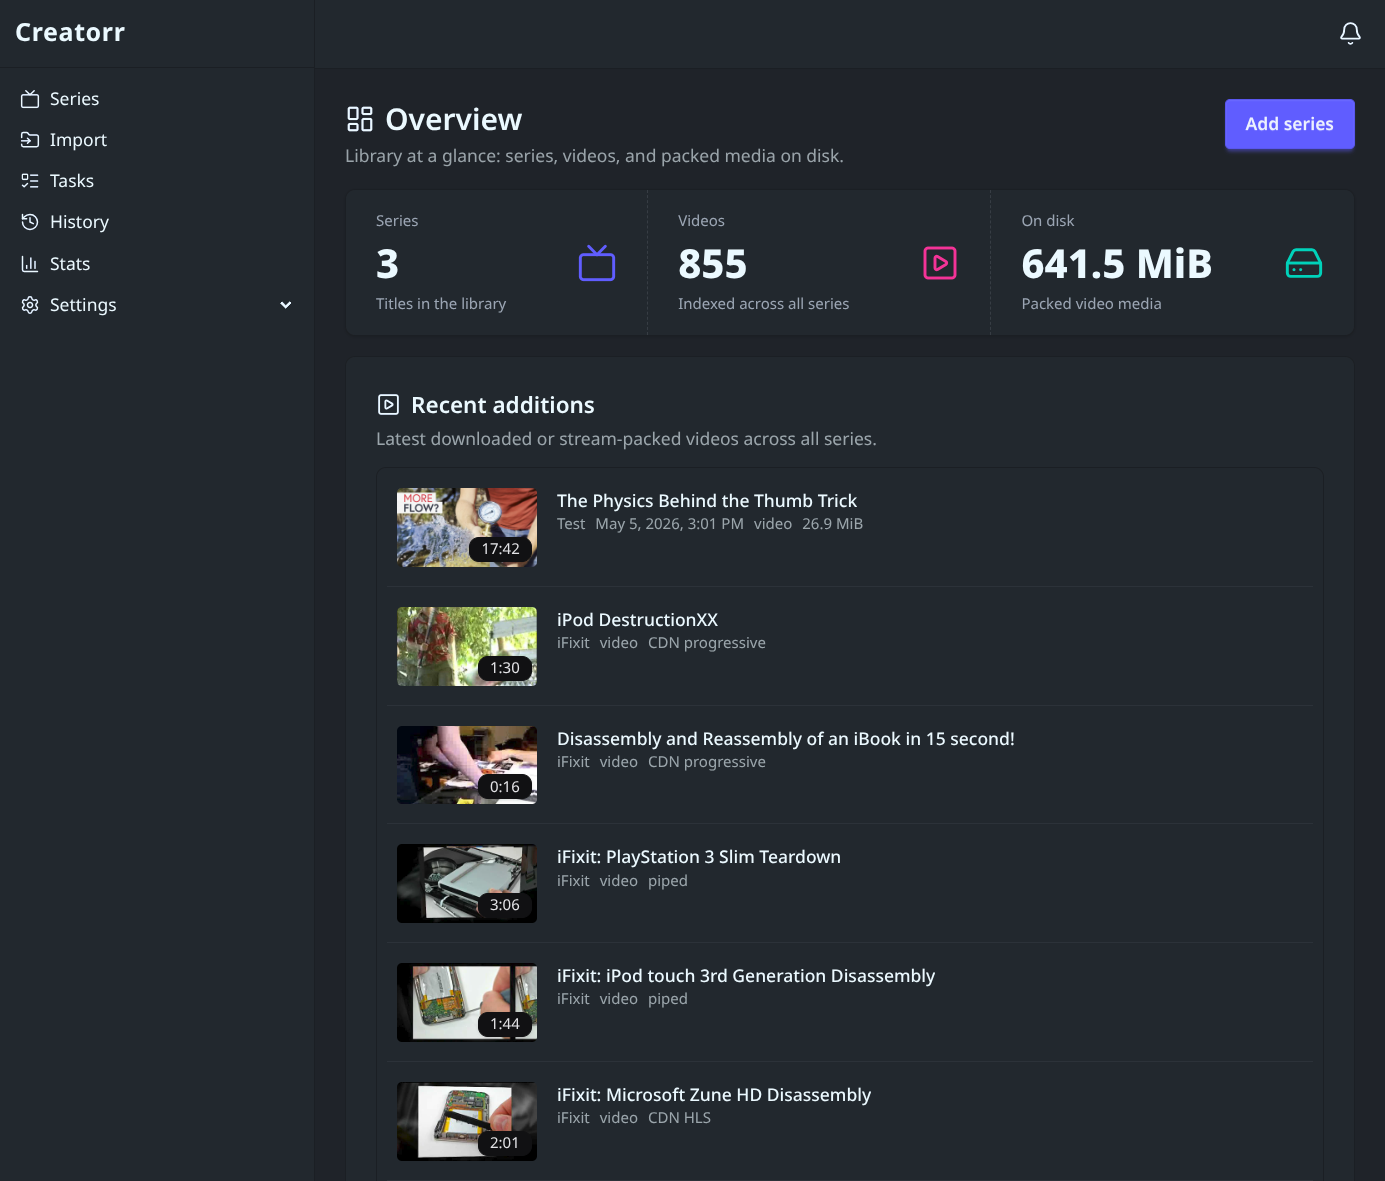
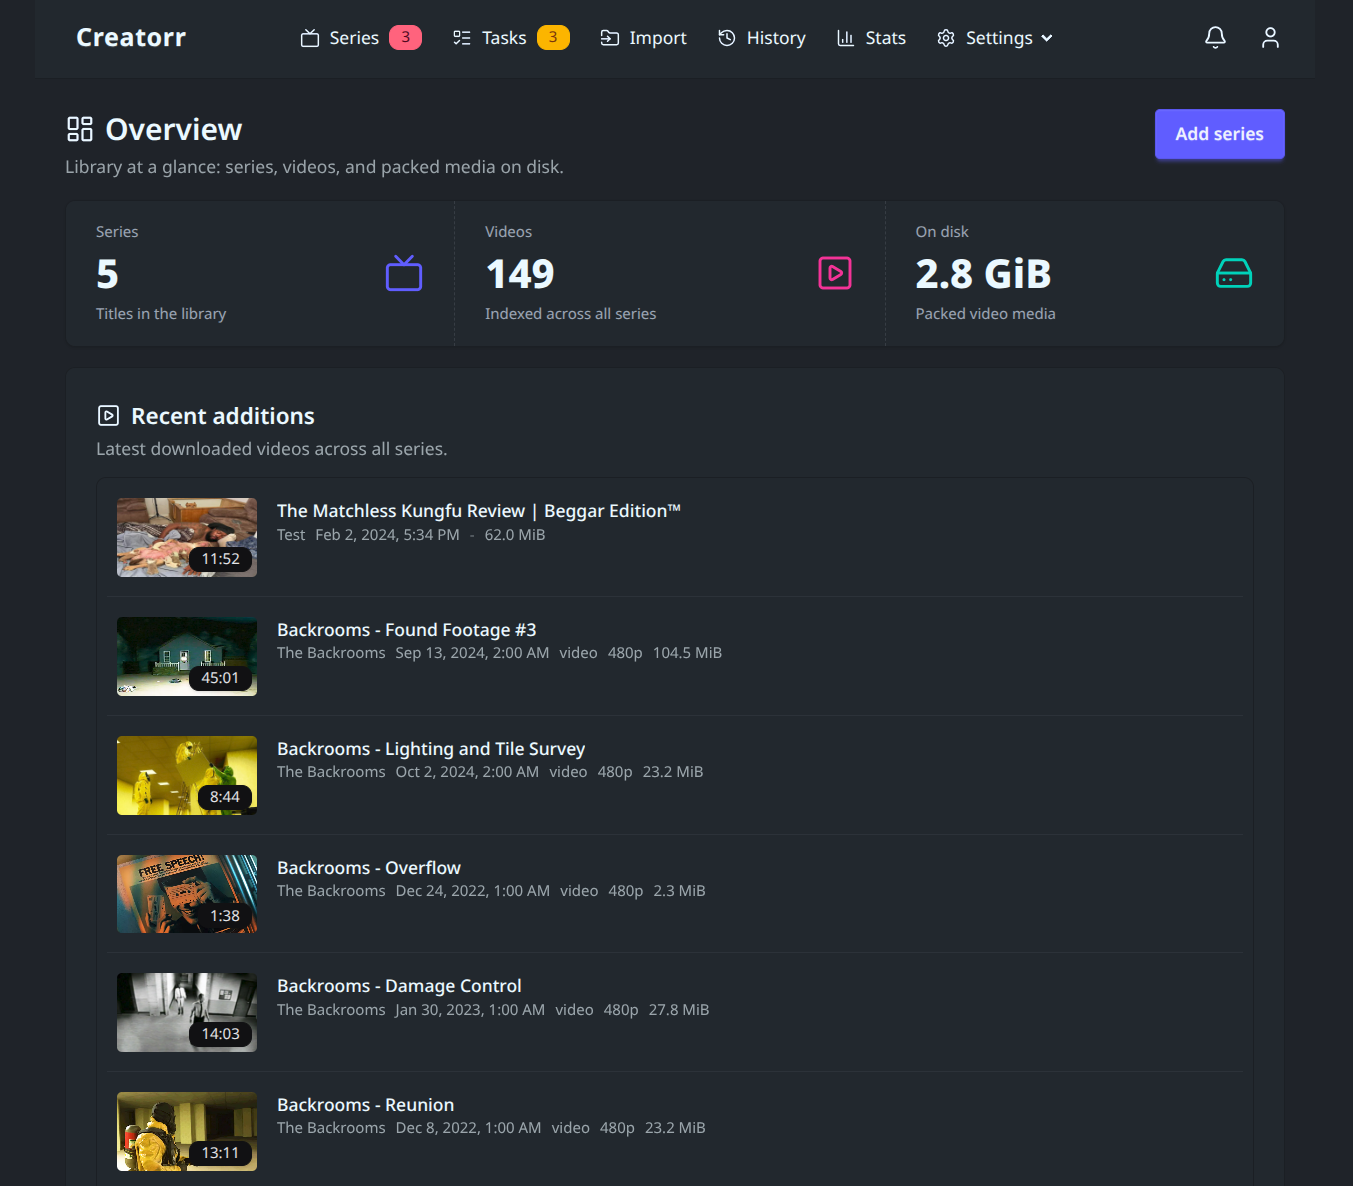
docs: refresh README, drop LIBRARY_ROOT
Lead with multi-source series workflow; trim Quick start
and Configuration. Compose always binds ./var/library.

diff --git a/README.md b/README.md
@@ -1,27 +1,30 @@
 # Creatorr
 
-Sonarr-shaped daemon for creator VOD: mirror channels and playlists, download with yt-dlp, and pack media-server-ready libraries (video or audio).
+Sonarr for creator VOD: manage creators as TV-style series. Merge multiple source URLs into one Creatorr series, index first, download using yt-dlp, then pack episodes with metadata ready for Emby, Jellyfin, and similar media servers.
 
 ![Creatorr Overview](screenshot.png)
 
 ## Features
 
-- **Scan, then download** - index sources into a video catalog; download wanted items on schedule or on demand
-- **Multi-source series** - channels, playlists, and single-video URLs under one series and root folder
-- **Library pack** - media under a root with media-server-compatible NFO and sidecars
-- **Audio delivery (opt-in)** - per-series bestaudio remux to MKA as TV-style episodes
+- **Multiple source URLs** - merge channels, playlists, and single-video URLs into one Creatorr series
+- **Index first** - scan sources into a video catalog before any download
+- **Metadata fetching & management** - fetch and edit series/video metadata; pack NFO and sidecars for Emby, Jellyfin, and similar
 - **Quality profiles** - format selectors and optional maturity media/sidecar refresh
-- **SponsorBlock** - mark and/or remove categories per quality profile (Creatorr-owned cut pipeline, not yt-dlp flags)
-- **Domains & queues** - per-host limits, Access (cookies/credentials), soft pause
+- **Domains & queues** - per-host rate limits, credentials (Access cookies), and soft pause
+- **Import existing downloads** - bring in files already on disk with automated matching
+- **Audio-only series** - per-series bestaudio remux to MKA as TV-style episodes
+- **Video retention** - delete media after a configured number of days
+- **SponsorBlock** - chapters, cut-out, and cut-out with an inserted info card
 - **FlareSolverr & PO tokens** - Compose sidecars out of the box for challenge pre-solve and proof-of-origin minting
-- **Automatic yt-dlp updates** - scheduled GitHub release checks, SHA2-256 verify, and managed binary updates (Settings → Connect / Scheduler)
-- **Web UI & API** - library overview, stats, and notifications in the browser; public OpenAPI REST for automation
+- **Automatic yt-dlp updates** - scheduled GitHub release checks and managed binary updates
+- **Notifications** - in-app alerts plus Apprise channels for digests and warnings
+- **Web UI & API** - library overview and stats in the browser; public OpenAPI REST for automation
 
 Product behavior: [`docs/`](docs/README.md). REST contract: [`api/openapi.yaml`](api/openapi.yaml). Agent/contributor contract: [`AGENTS.md`](AGENTS.md).
 
 ## Quick start (production)
 
-[`docker-compose.yml`](docker-compose.yml) pulls the published image (no local build):
+[`docker-compose.yml`](docker-compose.yml) pulls the published image:
 
 ```bash
 docker compose up -d
@@ -34,13 +37,35 @@ docker compose up -d
 | Health | `GET /api/health` (`ok` \| `degraded` \| `down`; no auth) |
 | OpenAPI | `GET /api/openapi.json` (requires API key or session after setup) |
 
-### Authentication
+**Volumes** (host `./var` mirrors the container layout):
 
-First boot: **Setup** (username + password). After that: Forms login (7-day sliding cookie) for the UI; API / SSE need the same cookie or `X-Api-Key` (Settings → General). `GET /api/health` stays public. Proxy TLS: set `CREATORR_TRUST_PROXY=1`. Details: [`docs/settings.md`](docs/settings.md).
+| Host | Container |
+| --- | --- |
+| `./var/data` | `/data` (SQLite `creatorr.db` + cache) |
+| `./var/import` | `/import` |
+| `./var/library` | `/library` (initial root folder seed) |
 
-**Recover access** (forgot password): stop Creatorr, clear the password hash in SQLite, start again, complete Setup.
+Compose comments show optional mounts: extra library roots, `/yt-dlp-plugins`.
 
-CLI:
+## Configuration
+
+Most options live in the UI under Settings.
+
+Common env vars (see [`.env.example`](.env.example)):
+
+| Variable | Default | Purpose |
+| --- | --- | --- |
+| `PUID` / `PGID` | `1000` | Host user for volume ownership |
+| `CREATORR_PORT` | `8787` | HTTP port |
+| `CREATORR_POT_PROVIDER_URL` | Compose sidecar | PO token provider (empty disables) |
+| `CREATORR_FLARESOLVERR_URL` | Compose sidecar | FlareSolverr (empty disables) |
+| `TZ` | `UTC` in Compose | Timezone for UI schedule labels |
+
+Full reference: [`docs/settings.md`](docs/settings.md).
+
+### Reset password
+
+Stop Creatorr, clear the password hash, start again, then complete Setup:
 
 ```bash
 sqlite3 ./var/data/creatorr.db <<'SQL'
@@ -48,49 +73,7 @@ UPDATE settings SET value = '' WHERE key = 'auth_password_hash';
 SQL
 ```
 
-Or use [DB Browser for SQLite](https://sqlitebrowser.org/): open `creatorr.db` → Browse Data → `settings` → clear `value` on `auth_password_hash` → Write Changes.
-
-**Volumes** (host `./var` mirrors the container layout):
-
-| Host | Container |
-| --- | --- |
-| `./var/data` | `/data` (SQLite `creatorr.db` + cache) |
-| `./var/import` | `/import` |
-| `CREATORR_LIBRARY_ROOT` (default `./var/library`) | `/library` (fixed; initial root folder) |
-
-Compose comments show optional mounts: extra library roots, `/yt-dlp-plugins`.
-
-Image includes the Creatorr binary plus **yt-dlp** (bootstrap at `/usr/local/share/creatorr/yt-dlp`, runtime at `/data/bin/yt-dlp`), **ffmpeg**, and **Deno**. See [`docs/ytdlp.md`](docs/ytdlp.md) for managed updates vs custom binary mode.
-
-First boot seeds one root at `/library` (local Go: `var/library`) and quality profiles `best` (with media verify on), `HD 1080p`, `HD 720p`, `SD 480p`. Override the host bind in `.env` (`CREATORR_LIBRARY_ROOT`) before first boot; add more roots later in Settings → Library.
-
-### Sidecars
-
-- **FlareSolverr** - Compose service `creatorr-flaresolverr` (headless Chrome; notable RAM). Set `CREATORR_FLARESOLVERR_URL` (Compose default `http://creatorr-flaresolverr:8191`). Enable **Use FlareSolverr** on a host under Settings → Queue / Domains.
-- **PO tokens** - Compose service `creatorr-po-token`. Set `CREATORR_POT_PROVIDER_URL` (Compose default `http://creatorr-po-token:4416`) and **PO token fetch** under Settings → Connect. See [`docs/ytdlp.md`](docs/ytdlp.md).
-
-### yt-dlp updates
-
-Managed runtime: `/data/bin/yt-dlp` (persists on `./var/data`). Settings → Scheduler **`ytdlp_update_cron`** (default `@weekly`) enables boot + scheduled + **Update now** GitHub updates. **Empty cron** disables GitHub updates: stop Creatorr, replace `/data/bin/yt-dlp`, restart. Channel (`stable` / `nightly`) under Settings → Connect. Details: [`docs/ytdlp.md`](docs/ytdlp.md).
-
-## Configuration
-
-Paths are fixed (not env) except the Compose host bind for the initial root folder. When `/data` exists (container): SQLite `/data/creatorr.db`, cache `/data/cache`, managed yt-dlp `/data/bin/yt-dlp`, import `/import`, plugins `/yt-dlp-plugins`; initial root folder is always `/library`. Local Go mirrors under `var/`.
-
-HTTP always binds `0.0.0.0`. Most runtime knobs live in Settings (SQLite / UI). FlareSolverr and PO token provider URLs are env-only. Apprise channels are Settings.
-
-| Variable | Default | Purpose |
-| --- | --- | --- |
-| `PUID` / `PGID` | `1000` | Host uid/gid for Compose `user:` on the Creatorr service (volume ownership). See `.env.example`. |
-| `CREATORR_LIBRARY_ROOT` | `./var/library` | Compose-only host path bind-mounted to fixed container `/library` (seeded as the initial root folder when `root_folders` is empty). |
-| `CREATORR_PORT` | `8787` | HTTP port |
-| `CREATORR_POT_PROVIDER_URL` | *(empty)* | bgutil PO token provider base URL. Compose default `http://creatorr-po-token:4416`. Empty disables Settings **PO token fetch**. |
-| `CREATORR_FLARESOLVERR_URL` | *(empty)* | FlareSolverr base URL. Compose default `http://creatorr-flaresolverr:8191`. Empty skips Flare health/pre-solve. |
-| `CREATORR_WEB_DEV` | off | Reload HTML/partials/`static/` from disk each request (`1` in `docker-compose.dev.yml`). |
-| `CREATORR_WEB_DIR` | `internal/web` | UI root when `CREATORR_WEB_DEV` is on. |
-| `TZ` | host / unset | Process local zone for **UI cron labels** only (stored cron still UTC). Prod compose `${TZ:-UTC}`. |
-
-Full settings reference: [`docs/settings.md`](docs/settings.md).
+Or use [DB Browser for SQLite](https://sqlitebrowser.org/) and clear `auth_password_hash` in the `settings` table.
 
 ## Development
 

diff --git a/docs/settings.md b/docs/settings.md
@@ -2,7 +2,7 @@
 
 Index: [README.md](README.md). Terminology: [`AGENTS.md`](../AGENTS.md).
 
-Most knobs are Settings keys (UI / SQLite). Process bootstrap env is only `CREATORR_PORT`, `CREATORR_POT_PROVIDER_URL`, `CREATORR_FLARESOLVERR_URL`, `CREATORR_TRUST_PROXY`, `CREATORR_WEB_*`, `TZ` (see [`config.Load`](../internal/config/config.go)). Compose-only: `CREATORR_LIBRARY_ROOT` (host bind → container `/library`), `PUID`/`PGID`. Paths: container `/data` (DB + cache + managed yt-dlp at `/data/bin/yt-dlp`), `/library` (initial root folder seed), `/import`, `/yt-dlp-plugins`, baked POT plugin under `/usr/local/share/yt-dlp-plugins/bgutil`; local `var/...`. HTTP bind is always `0.0.0.0` (not configurable). yt-dlp runtime and updates: see [`ytdlp.md`](ytdlp.md).
+Most knobs are Settings keys (UI / SQLite). Process bootstrap env is only `CREATORR_PORT`, `CREATORR_POT_PROVIDER_URL`, `CREATORR_FLARESOLVERR_URL`, `CREATORR_TRUST_PROXY`, `CREATORR_WEB_*`, `TZ` (see [`config.Load`](../internal/config/config.go)). Compose-only: `PUID`/`PGID`. Paths: container `/data` (DB + cache + managed yt-dlp at `/data/bin/yt-dlp`), `/library` (initial root folder seed; Compose mounts `./var/library`), `/import`, `/yt-dlp-plugins`, baked POT plugin under `/usr/local/share/yt-dlp-plugins/bgutil`; local `var/...`. Add further roots in Settings → Library. HTTP bind is always `0.0.0.0` (not configurable). yt-dlp runtime and updates: see [`ytdlp.md`](ytdlp.md).
 
 **External service URLs (env only, not Settings):** `CREATORR_FLARESOLVERR_URL` and `CREATORR_POT_PROVIDER_URL`. Settings → Connect shows both as disabled URL inputs with a colored status icon beside each; the page shell renders immediately with a spinner while each service is probed asynchronously (`GET /settings/connect/external-services/{pot|flare}`). Empty Flare URL skips the health probe and FlareSolverr pre-solve, and clears Use FlareSolverr flags on boot (defaults always off; enable On per host override; override checkbox disabled while URL unset). Empty PO URL disables **PO token fetch** (UI + runtime `never`). Compose defaults `http://creatorr-flaresolverr:8191` / `http://creatorr-po-token:4416` when the env key is omitted; an explicitly empty value disables. Flare sidecar uses headless Chrome (notable RAM). `CREATORR_TRUST_PROXY=1` trusts `X-Forwarded-Proto` for Secure session cookies (only behind a proxy that overwrites client headers).
 
@@ -10,7 +10,7 @@ Most knobs are Settings keys (UI / SQLite). Process bootstrap env is only `CREAT
 
 **Stats chart samples:** fixed **1 year** retention (not a Settings key). Minute metrics stored on change (polled every minute); library size sampled daily. Prune runs on each sample tick. Mentioned on the Stats page header help only.
 
-**Authentication:** empty `auth_password_hash` = first-boot **Setup** only (UI redirects to `/setup`; API returns `SetupRequired` except `GET /api/health`). After setup, Forms login + `X-Api-Key` are always required (no disable). Keys: `auth_username`, `auth_password_hash` (bcrypt), `api_key` (32 hex chars), `auth_cookie_secret`, `auth_session_epoch`. Settings → General shows a **Login** control (**Change username / password** modal) + API key; Password change / username change bumps epoch (other sessions die); Save re-issues cookie for the current browser. Login always runs bcrypt (dummy hash on wrong username) and rate-limits failed attempts per IP (5 fails → 5 minute lock). Recover: stop Creatorr, clear `auth_password_hash` via `sqlite3` or [DB Browser for SQLite](https://sqlitebrowser.org/), restart, run Setup again. Details: [README Authentication](../README.md#authentication).
+**Authentication:** empty `auth_password_hash` = first-boot **Setup** only (UI redirects to `/setup`; API returns `SetupRequired` except `GET /api/health`). After setup, Forms login + `X-Api-Key` are always required (no disable). Keys: `auth_username`, `auth_password_hash` (bcrypt), `api_key` (32 hex chars), `auth_cookie_secret`, `auth_session_epoch`. Settings → General shows a **Login** control (**Change username / password** modal) + API key; Password change / username change bumps epoch (other sessions die); Save re-issues cookie for the current browser. Login always runs bcrypt (dummy hash on wrong username) and rate-limits failed attempts per IP (5 fails → 5 minute lock). Recover: stop Creatorr, clear `auth_password_hash` via `sqlite3` or [DB Browser for SQLite](https://sqlitebrowser.org/), restart, run Setup again. Details: [README Reset password](../README.md#reset-password).
 
 Editable settings (examples):
 
